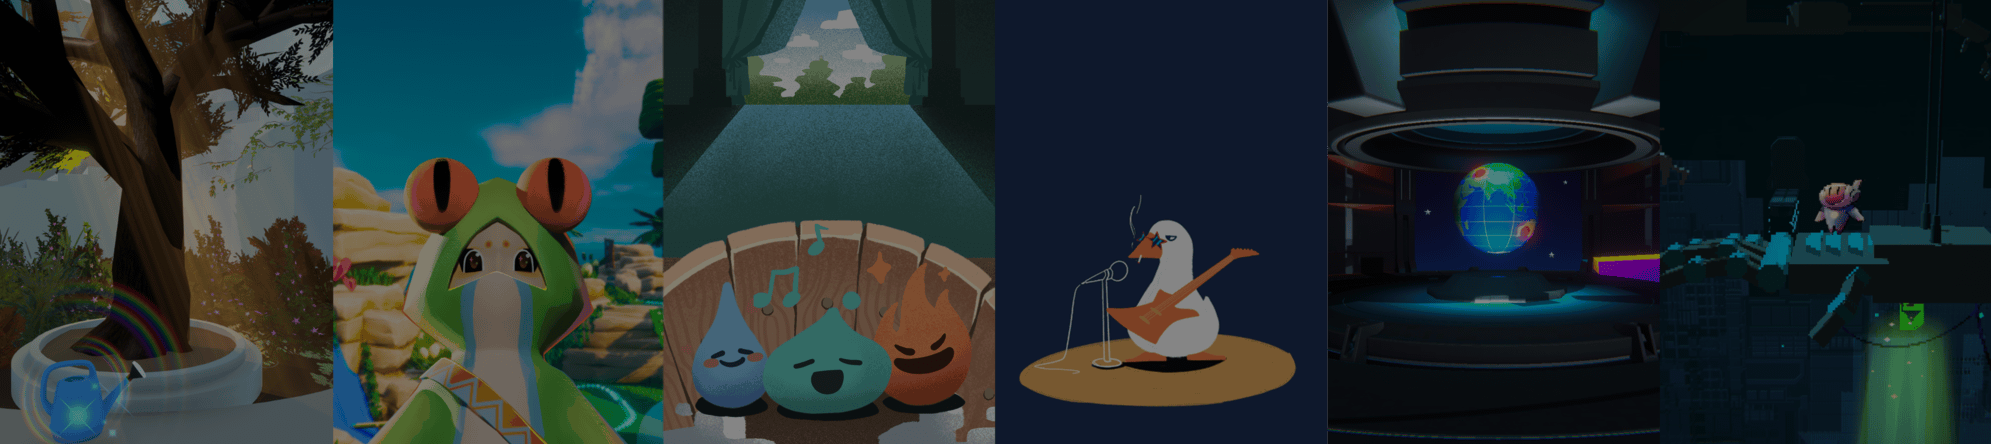
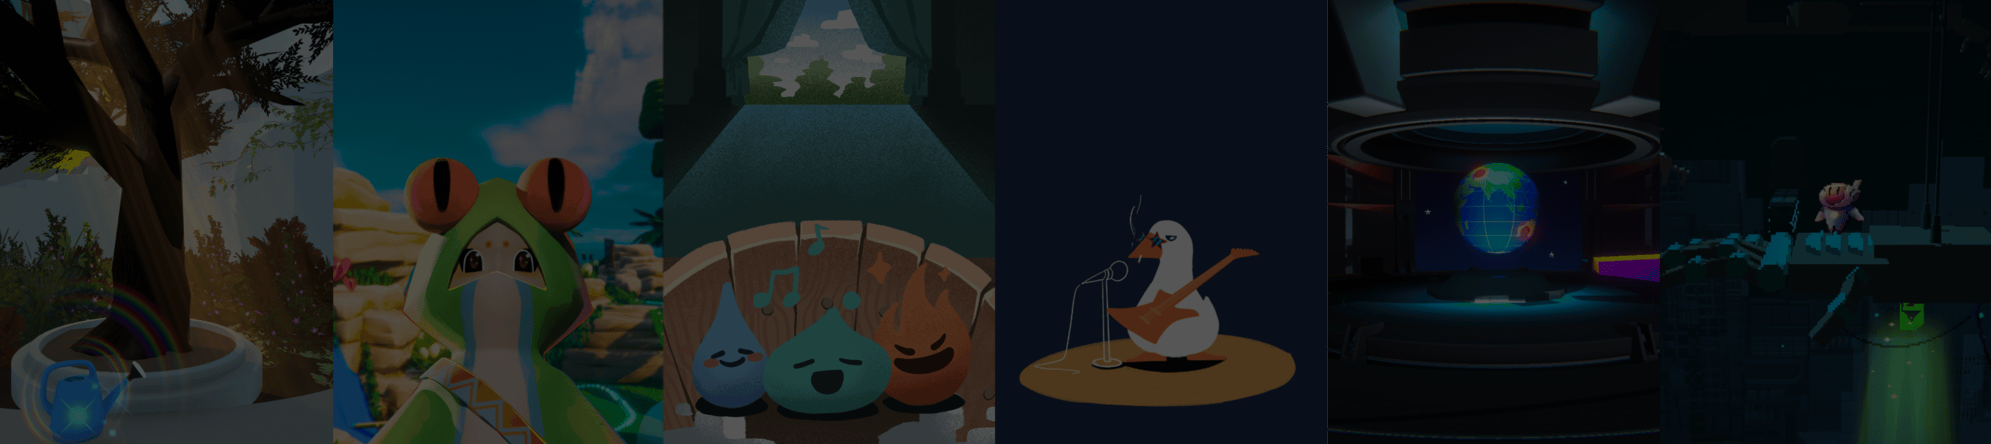
Add showreel GIF and update profile info
Added a new showreel.gif and updated bannerdark.png. Modified index.html to display the showreel GIF, adjusted image margin, and updated game industry experience from 4 to 5 years.

diff --git a/index.html b/index.html
@@ -208,21 +208,29 @@ body.page-loaded {
        <br>
       <div class="matha"> 
   
-          <img class="ami" src="assets/img/me.JPG" alt="" width="180" height="180" style="margin-top: 30px";>
+          <img class="ami" src="assets/img/me.JPG" alt="" width="180" height="180" style="margin-top: 20px";>
        
           <!-- <div style="border:1px solid black">
             <model-viewer camera-controls alt="Model" src="https://modelviewer.dev/shared-assets/models/shishkebab.glb">
             </model-viewer>
         </div> -->
-          <p style="color: white !important;">I am a <strong>multidisciplinary programmer</strong> based in Helsinki, Finland 🇫🇮 with <strong>4 years of game industry experience.</strong> <br>Currently working on completing my master's degree at <strong><a href="https://www.aalto.fi/en" style="color: white !important;">Aalto University</a></strong>.
+          <p style="color: white !important;">I am a <strong>multidisciplinary programmer</strong> based in Helsinki, Finland 🇫🇮 with <strong>5 years of game industry experience.</strong> <br>Currently working on completing my master's degree at <strong><a href="https://www.aalto.fi/en" style="color: white !important;">Aalto University</a></strong>.
            <br>Major in <strong><a href="https://www.aalto.fi/en/study-options/game-design-and-development-computer-communication-and-information-sciences-master-of-science" style="color: white !important;">Game Design and Development</strong></a> and minor in <strong><a href="https://www.aalto.fi/en/minors/building-virtual-worlds-minor" style="color: white !important;">Virtual Reality</strong></a>. 
             <br>
             <br>
             Engaging video games, immersive-interactive multimedia and breathtaking art of various forms have always been my motivation to achieve more.
             I am currently focusing on <strong>Virtual Reality and Computer Vision-based Locomotion and Interaction Design.</strong>
             <!-- I am also working on Exergames that require Physical Movement. -->
-          </p><br><br><br>
-            <h5 style="color: rgb(255, 255, 255) !important;margin-bottom: 5px;text-align: center !important;">My fields of interest </h5>
+          </p>
+
+          <h5 style="color: rgb(255, 255, 255) !important;margin-bottom: 3px;text-align: center !important;">One Minute ShowReel🎬</h5>
+          <div style="display: flex; justify-content: center; align-items: center;">
+        <img src="assets/img/showreel.gif" style="width: 450 !important;height: 250 !important; ">    
+<!-- <iframe width="460" height="250" src="https://www.youtube.com/embed/GTHPUJtnczI?autoplay=1&mute=1&loop=1" title="YouTube video player" frameborder="0" allow="accelerometer; autoplay; clipboard-write; encrypted-media; gyroscope; picture-in-picture; web-share" referrerpolicy="strict-origin-when-cross-origin" allowfullscreen></iframe> -->
+          </div>
+
+<br><br>
+            <h5 style="color: rgb(255, 255, 255) !important;margin-bottom: 3px;text-align: center !important;">My fields of interest </h5>
            
             <style>
               body {
